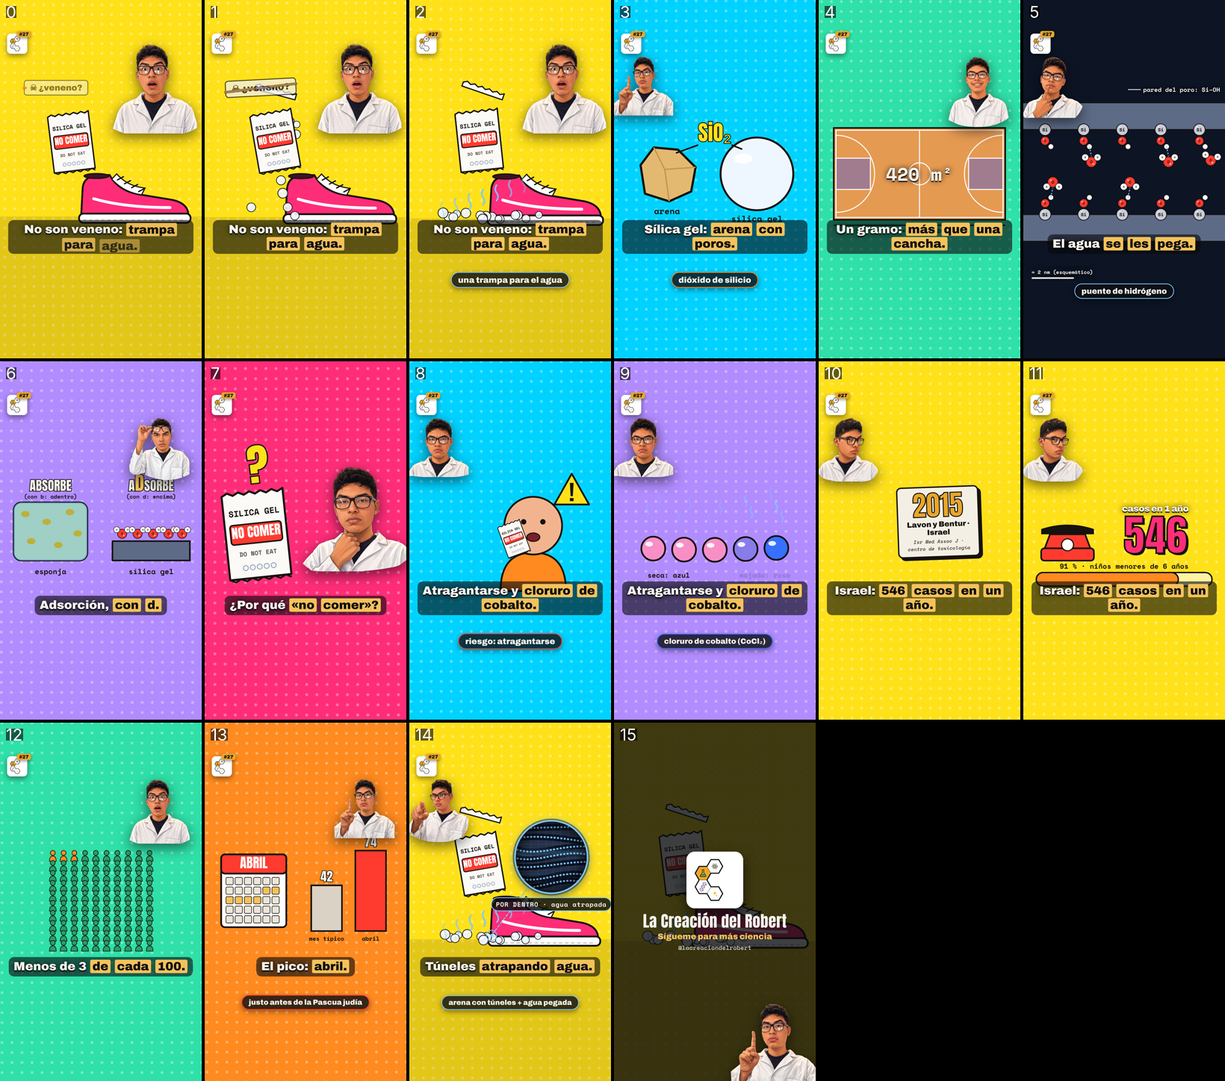
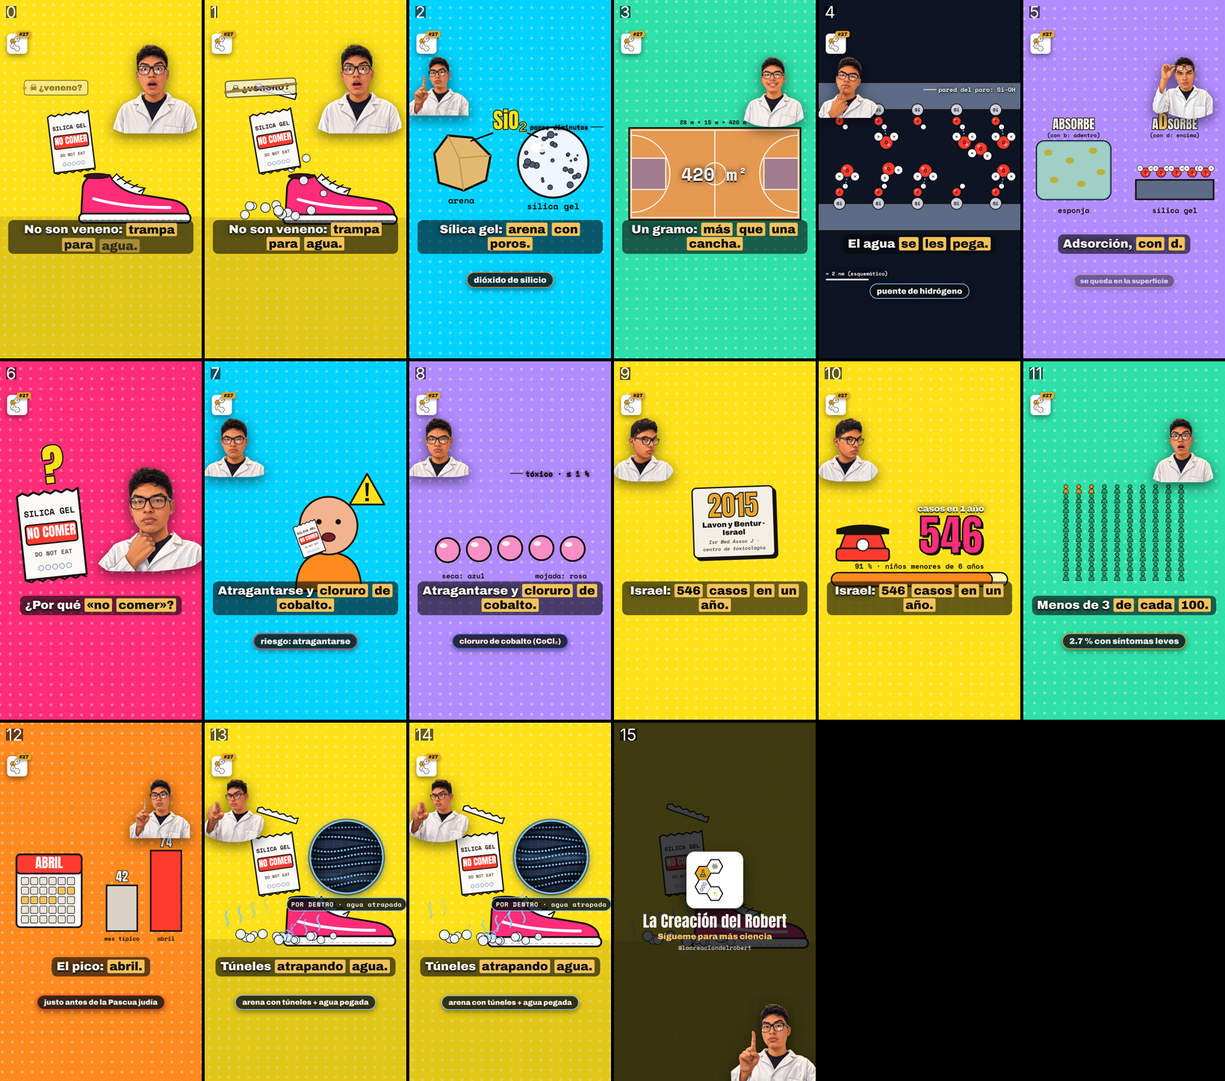
Químico: avance en progreso [sin render]
Claude-Session: https://claude.ai/code/session_0157fpgzuJM3ymsKtSoqvmnt

diff --git a/borradores/qui-26-compresa-fria/compresa.jsx b/borradores/qui-26-compresa-fria/compresa.jsx
@@ -113,10 +113,10 @@ function Compresa26() {
   const calorG = kprog(T, K.G + 1.9, K.G + 2.5);
   const segB = K.Es + 8.6;
   // cristal: orden en que se sueltan los iones
-  const cols = 6, filas = 4, paso = 104, gx0 = 540 - (cols - 1) * paso / 2, gy0 = 830;
+  const cols = 6, filas = 4, paso = 104, gx0 = 540 - (cols - 1) * paso / 2, gy0 = 690;
   const red = Array.from({ length: cols * filas }, (_, i) => ({ c: i % cols, f: Math.floor(i / cols), tipo: (i % cols + Math.floor(i / cols)) % 2 ? 'no3' : 'nh4' }));
   const sale = [0, 5, 18, 23, 1, 12, 17, 6, 11, 2];
-  const destinos = [[150, 600], [930, 620], [130, 1160], [950, 1150], [330, 560], [90, 900], [990, 890], [700, 560], [980, 1020], [480, 1180]];
+  const destinos = [[150, 560], [930, 1080], [130, 1080], [950, 600], [400, 1100], [90, 820], [990, 840], [680, 1110], [260, 1110], [820, 1120]];
   const R = krng(11);
   const revuelto = Array.from({ length: 12 }, () => [R(), R(), R() * 6]);
   const tempV = klerp(27.4, 7.6, kprog(T, K.Te + 2.0, K.Te + 5.6, kEase.suave));
@@ -140,14 +140,13 @@ function Compresa26() {
       <Escena T={T} a={K.Ad} b={K.Ap} zoom={0.03}>
         <FondoLunares color={KC.yellow} />
         <SvgCapa><Compresa x={540} y={1030} s={1.25} /></SvgCapa>
-        <Lupa T={T} at={K.Ad + 0.3} until={K.Ap - 0.3} x={540} y={900} r={250} fx={540} fy={1030} tinte={KC.cyan} interior={(t, r) =>
+        <Lupa T={T} at={K.Ad + 0.3} until={K.Ap - 0.3} x={540} y={900} r={250} fx={540} fy={1030} tinte={KC.cyan} etiqueta="bolsita de agua + polvo" interior={(t, r) =>
           <svg width={r * 2} height={r * 2}><g transform={`translate(${r} ${r}) scale(0.95)`}>
             <rect x={-220} y={-150} width={440} height={300} rx={50} fill="#e8f6ff" opacity={0.2} stroke="#bfe8ff" strokeWidth={4} />
             <Granos x={-200} y={-120} w={400} h={240} n={60} f={1} />
             <rect x={-110} y={-58} width={220} height={116} rx={30} fill={AGUA} stroke="#1f5fa8" strokeWidth={6} />
             <text y={14} textAnchor="middle" style={{ font:`700 36px ${KF.mono}` }} fill={KC.ink}>H₂O</text>
           </g></svg>} />
-        <Etq T={T} at={K.Ad + 1.0} until={K.Ap - 0.3} x={250} y={1200} texto="bolsita de agua" lado="izq" tam={32} color={KC.ink} />
       </Escena>
       {/* 2 · se rompe la bolsita */}
       <Escena T={T} a={K.Ap} b={K.Cr} zoom={0.06}>
@@ -171,13 +170,13 @@ function Compresa26() {
               {p > 0.1 && [0, 1, 2, 3, 4].map((j) => { const a = j / 5 * Math.PI * 2 + T * 1.5; return <Mol key={j} tipo="agua" x={x + Math.cos(a) * 78} y={y + Math.sin(a) * 78} s={0.42} rot={a * 57} o={kprog(T, t0 + 0.2, t0 + 0.8)} />; })}
             </g>; })}
           {/* barra de escala */}
-          <line x1={80} y1={1200} x2={80 + paso * 2} y2={1200} stroke={KC.texto} strokeWidth={8} />
-          <text x={80 + paso} y={1180} textAnchor="middle" style={{ font:`700 30px ${KF.mono}` }} fill={KC.texto}>1 nm (esquema)</text>
+          <line x1={80} y1={1740} x2={80 + paso * 2} y2={1740} stroke={KC.texto} strokeWidth={8} />
+          <text x={80 + paso} y={1720} textAnchor="middle" style={{ font:`700 30px ${KF.mono}` }} fill={KC.texto}>1 nm (esquema)</text>
           {/* energía: separar cuesta más de lo que regresa el agua */}
           {[['separar: cuesta', KC.red, 1.0, 2.6], ['rodear con agua: regresa', KC.mint, 0.82, 3.4]].map(([t, c, l, d], i) => { const p = kprog(T, K.Cr + d, K.Cr + d + 0.7, kEase.sale);
             return <g key={i} opacity={kprog(T, K.Cr + d, K.Cr + d + 0.2)}>
-              <text x={90} y={1462 + i * 120} style={{ font:`700 32px ${KF.mono}` }} fill={KC.texto}>{t}</text>
-              <rect x={90} y={1478 + i * 120} width={880 * l * p} height={44} rx={22} fill={c} stroke={KC.ink} strokeWidth={5} />
+              <text x={90} y={1442 + i * 120} style={{ font:`700 32px ${KF.mono}` }} fill={KC.texto}>{t}</text>
+              <rect x={90} y={1458 + i * 120} width={880 * l * p} height={44} rx={22} fill={c} stroke={KC.ink} strokeWidth={5} />
             </g>; })}
         </SvgCapa>
       </Escena>
@@ -192,7 +191,7 @@ function Compresa26() {
           {[200, 420, 660, 880].map((x, i) => <Calor key={i} T={T} x={x} y0={1180} y1={780} o={kprog(T, K.Ro + 0.3 + i * 0.15, K.Ro + 0.8 + i * 0.15)} ph={i} ancho={12} />)}
         </SvgCapa>
         <Etq T={T} at={K.Ro + 0.2} until={K.Pr - 0.2} x={1010} y={580} texto="agua + iones" lado="izq" tam={32} color={KC.ink} />
-        <Etq T={T} at={K.Ro + 0.6} until={K.Pr - 0.2} x={1010} y={1260} texto="tu rodilla" lado="izq" tam={34} color={KC.ink} />
+        <Etq T={T} at={K.Ro + 0.6} until={K.Pr - 0.2} x={1010} y={1120} texto="tu rodilla" lado="izq" tam={34} color={KC.ink} />
       </Escena>
       {/* 5 · pregunta */}
       <Escena T={T} a={K.Pr} b={K.De} zoom={0.1}>
@@ -247,25 +246,24 @@ function Compresa26() {
       <Escena T={T} a={K.Es} b={segB + 0.2}>
         <FondoLunares color={KC.lilac} />
         <SvgCapa>
-          {T > K.Es + 3.4 && Array.from({ length: 5 }, (_, i) => <Personita key={i} x={170 + i * 150} y={980} s={2.4} color={KC.yellow} o={kprog(T, K.Es + 3.6 + i * 0.25, K.Es + 3.9 + i * 0.25)} />)}
-          {T > K.Es + 4.8 && <Compresa x={540} y={1150} s={0.5} roto={1} corte={0} />}
+          {T > K.Es + 3.4 && Array.from({ length: 5 }, (_, i) => <Personita key={i} x={170 + i * 150} y={960} s={2.4} color={KC.yellow} o={kprog(T, K.Es + 3.6 + i * 0.25, K.Es + 3.9 + i * 0.25)} />)}
         </SvgCapa>
       </Escena>
       <Escena T={T} a={segB} b={K.Ur}>
         <FondoLunares color={KC.mint} />
         <SvgCapa>
-          <Bote x={560} y={1060} s={1} />
+          <Bote x={560} y={960} s={1} />
           {(() => { const c = kprog(T, segB + 0.6, segB + 1.6, kEase.suave); return c < 1 &&
-            <g opacity={1 - kprog(T, segB + 1.4, segB + 1.6)}><Compresa x={560} y={klerp(620, 920, c)} s={0.7} rot={klerp(-10, 25, c)} roto={1} /></g>; })()}
-          <Marca x={820} y={760} ok={true} s={0.9} o={kprog(T, segB + 1.6, segB + 2.0)} />
+            <g opacity={1 - kprog(T, segB + 1.4, segB + 1.6)}><Compresa x={560} y={klerp(560, 830, c)} s={0.7} rot={klerp(-10, 25, c)} roto={1} /></g>; })()}
+          <Marca x={830} y={700} ok={true} s={0.9} o={kprog(T, segB + 1.6, segB + 2.0)} />
         </SvgCapa>
       </Escena>
       {/* 9 · urea */}
       <Escena T={T} a={K.Ur} b={K.Ci}>
         <FondoLunares color={KC.mint} />
         <SvgCapa>
-          <Molecula {...UREA} x={360} y={960} s={1.5} rot={Math.sin(T) * 6} o={kprog(T, K.Ur, K.Ur + 0.5)} />
-          <text x={590} y={975} textAnchor="middle" style={{ font:`400 120px ${KF.titulo}` }} fill={KC.ink} opacity={kprog(T, K.Ur + 2.2, K.Ur + 2.6)}>=</text>
+          <Molecula {...UREA} x={340} y={960} s={1.5} rot={Math.sin(T) * 6} o={kprog(T, K.Ur, K.Ur + 0.5)} />
+          <text x={630} y={975} textAnchor="middle" style={{ font:`400 120px ${KF.titulo}` }} fill={KC.ink} opacity={kprog(T, K.Ur + 2.2, K.Ur + 2.6)}>=</text>
           <g opacity={kprog(T, K.Ur + 2.4, K.Ur + 3.0)}>
             <Rinon x={790} y={820} s={0.9} flip={-1} /><Rinon x={950} y={820} s={0.9} />
             <Frasco x={870} y={1110} s={1} />
@@ -300,7 +298,7 @@ function Compresa26() {
       <Chip T={T} at={K.Es + 7.2} until={segB - 0.2} texto="presión algo baja" x={540} y={1610} tam={42} borde={KC.orange} />
       <Chip T={T} at={segB + 0.4} until={K.Ur - 0.2} texto="si se rompe: a la basura" x={540} y={1500} tam={42} borde={KC.mint} />
       <Chip T={T} at={segB + 1.7} until={K.Ur - 0.2} texto="si la usa un niño: vigílalo" x={540} y={1610} tam={42} borde={KC.gold} />
-      <Etq T={T} at={K.Ur + 0.6} until={K.Ci - 0.3} x={200} y={1170} texto="urea · CO(NH₂)₂" lado="der" tam={34} color={KC.ink} />
+      <Etq T={T} at={K.Ur + 0.6} until={K.Ci - 0.3} x={110} y={690} texto="urea · CO(NH₂)₂" lado="der" tam={34} color={KC.ink} />
       <Chip T={T} at={K.Ur + 2.8} until={K.Ci - 0.2} texto="la misma molécula de tu orina" x={540} y={1500} tam={40} borde={KC.gold} />
       <Chip T={T} at={K.Ci + 1.2} until={K.Ou} texto="calor de tu piel → disuelve el cristal" x={540} y={1500} tam={34} borde={CALOR} />
       <Chip T={T} at={K.Ci + 0.6} until={K.Ou} texto="con un trapo, no directo" x={300} y={600} tam={30} borde={KC.mint} />

diff --git a/borradores/qui-27-silica-gel/silica.jsx b/borradores/qui-27-silica-gel/silica.jsx
@@ -151,13 +151,13 @@ function Silica() {
       <Escena T={T} a={K.Q} b={K.Su}>
         <FondoLunares color={KC.cyan} />
         <SvgCapa>
-          <GranoArena x={290} y={930} s={1.15 * (0.6 + 0.4 * kprog(T, K.Q, K.Q + 0.5, kEase.rebote))} />
-          <BolitaPoros x={760} y={930} r={190 * (0.6 + 0.4 * kprog(T, K.Q + 0.2, K.Q + 0.7, kEase.rebote))} p={kprog(T, K.Q + 2.6, K.Q + 4.4)} />
-          <text x={290} y={1140} textAnchor="middle" style={{ font:`700 44px ${KF.mono}` }} fill={KC.ink}>arena</text>
-          <text x={760} y={1180} textAnchor="middle" style={{ font:`700 44px ${KF.mono}` }} fill={KC.ink}>sílica gel</text>
+          <GranoArena x={290} y={870} s={1.15 * (0.6 + 0.4 * kprog(T, K.Q, K.Q + 0.5, kEase.rebote))} />
+          <BolitaPoros x={760} y={870} r={180 * (0.6 + 0.4 * kprog(T, K.Q + 0.2, K.Q + 0.7, kEase.rebote))} p={kprog(T, K.Q + 2.6, K.Q + 4.4)} />
+          <text x={290} y={1080} textAnchor="middle" style={{ font:`700 44px ${KF.mono}` }} fill={KC.ink}>arena</text>
+          <text x={760} y={1110} textAnchor="middle" style={{ font:`700 44px ${KF.mono}` }} fill={KC.ink}>sílica gel</text>
           <g opacity={kprog(T, K.Q + 1.0, K.Q + 1.4)}>
-            <text x={540} y={760} textAnchor="middle" style={{ font:`400 110px ${KF.titulo}` }} fill={KC.yellow} stroke={KC.ink} strokeWidth={8} paintOrder="stroke">SiO₂</text>
-            <path d="M 450 780 L 340 820 M 630 780 L 680 800" stroke={KC.ink} strokeWidth={8} strokeLinecap="round" />
+            <text x={540} y={630} textAnchor="middle" style={{ font:`400 110px ${KF.titulo}` }} fill={KC.yellow} stroke={KC.ink} strokeWidth={8} paintOrder="stroke">SiO₂</text>
+            <path d="M 450 650 L 340 740 M 630 650 L 680 700" stroke={KC.ink} strokeWidth={8} strokeLinecap="round" />
           </g>
         </SvgCapa>
       </Escena>
@@ -167,7 +167,7 @@ function Silica() {
         <SvgCapa>
           <Cancha x={540} y={930} w={klerp(60, 900, cancha)} h={klerp(60, 482, cancha)} o={kprog(T, K.Su + 0.5, K.Su + 0.8)} />
           {cancha < 0.98 && <BolitaPoros x={540} y={930} r={klerp(110, 30, kprog(T, K.Su, K.Su + 0.8))} p={1} />}
-          {cancha > 0.98 && <g><line x1={90} x2={990} y1={1200} y2={1200} stroke={KC.ink} strokeWidth={6} /><text x={540} y={1240} textAnchor="middle" style={{ font:`700 30px ${KF.mono}` }} fill={KC.ink}>28 m × 15 m = 420 m²</text></g>}
+          {cancha > 0.98 && <g><text x={540} y={1135} textAnchor="middle" style={{ font:`700 34px ${KF.mono}` }} fill="#fff" stroke={KC.ink} strokeWidth={5} paintOrder="stroke">28 m × 15 m = 420 m²</text></g>}
         </SvgCapa>
         <Contador T={T} at={K.Su + 0.6} desde={0} hasta={420} dur={2.2} sufijo=" m²" x={540} y={930} tam={96} color={KC.texto} />
       </Escena>
@@ -175,16 +175,16 @@ function Silica() {
       <Escena T={T} a={K.Si} b={K.Ad}>
         <div style={{ position:'absolute', inset:0, background:KC.noche }}></div>
         <SvgCapa>
-          <rect x={0} y={560} width={KW} height={140} fill={PARED} stroke={KC.ink} strokeWidth={6} />
-          <rect x={0} y={1140} width={KW} height={140} fill={PARED} stroke={KC.ink} strokeWidth={6} />
-          {SIL_X.map((x, i) => <g key={i}><Silanol x={x} y={700} dir={1} /><Silanol x={x} y={1140} dir={-1} /></g>)}
+          <rect x={0} y={460} width={KW} height={140} fill={PARED} stroke={KC.ink} strokeWidth={6} />
+          <rect x={0} y={1080} width={KW} height={140} fill={PARED} stroke={KC.ink} strokeWidth={6} />
+          {SIL_X.map((x, i) => <g key={i}><Silanol x={x} y={600} dir={1} /><Silanol x={x} y={1080} dir={-1} /></g>)}
           {aguas.map(([x, dir], i) => { const t0 = K.Si + 0.6 + i * 0.45, p = kprog(T, t0, t0 + 0.9, kEase.sale);
-            const hx = x + 30, hy = dir > 0 ? 700 + 88 : 1140 - 88, tx = hx + 10, ty = hy + dir * 80;
-            const R = krng(30 + i), x0 = 1180, y0 = 800 + R() * 260;
+            const hx = x + 30, hy = dir > 0 ? 600 + 88 : 1080 - 88, tx = hx + 10, ty = hy + dir * 80;
+            const R = krng(30 + i), x0 = 1180, y0 = 760 + R() * 200;
             const mx = klerp(x0, tx, p) + (p < 1 ? Math.sin(T * 5 + i) * 14 : 0), my = klerp(y0, ty, p) + (p < 1 ? Math.cos(T * 4 + i) * 14 : 0);
             return <g key={i}>
               {p >= 1 && <line x1={hx} y1={hy} x2={tx} y2={ty - dir * 30} stroke={AGUA} strokeWidth={5} strokeDasharray="8 8" />}
-              {T > t0 - 0.6 && <Mol tipo="agua" x={mx} y={my} s={0.8} rot={p >= 1 ? (dir > 0 ? 180 : 0) : T * 60 + i * 40} />}
+              {T > t0 - 0.6 && <Mol tipo="agua" x={mx} y={my} s={1.0} rot={p >= 1 ? (dir > 0 ? 180 : 0) : T * 60 + i * 40} />}
             </g>; })}
         </SvgCapa>
         <div style={{ position:'absolute', left:60, top:1420, zIndex:40, color:KC.texto, font:`700 26px ${KF.mono}`, textShadow:KSOMBRA }}>
@@ -273,12 +273,12 @@ function Silica() {
       <Escena T={T} a={K.Sn} b={K.Cu}>
         <FondoLunares color={KC.mint} />
         <SvgCapa>
-          {Array.from({ length: 100 }, (_, i) => { const c = i % 10, r = Math.floor(i / 10), x = 290 + c * 56, y = 730 + r * 52;
+          {Array.from({ length: 100 }, (_, i) => { const c = i % 10, r = Math.floor(i / 10), x = 103 + (i % 20) * 46, y = 780 + Math.floor(i / 20) * 82;
             const on = kprog(T, K.Sn + 0.2 + i * 0.012, K.Sn + 0.4 + i * 0.012), nar = kprog(T, K.Sn + 1.8, K.Sn + 2.3);
             const base = mixHex('#d8f5ea', '#2a9d6a', on);
-            if (i < 2) return <Personita key={i} x={x} y={y} s={0.8} color={mixHex(base, KC.orange, nar)} o={on} />;
-            if (i === 2) return <PersonaParcial key={i} id="p27" x={x} y={y} s={0.8} f={0.7 * nar} base={base} color={KC.orange} />;
-            return <Personita key={i} x={x} y={y} s={0.8} color={base} o={Math.max(0.3, on)} />; })}
+            if (i < 2) return <Personita key={i} x={x} y={y} s={0.78} color={mixHex(base, KC.orange, nar)} o={on} />;
+            if (i === 2) return <PersonaParcial key={i} id="p27" x={x} y={y} s={0.78} f={0.7 * nar} base={base} color={KC.orange} />;
+            return <Personita key={i} x={x} y={y} s={0.78} color={base} o={Math.max(0.3, on)} />; })}
         </SvgCapa>
       </Escena>
       {/* 9 · curioso: el pico de abril */}
@@ -286,7 +286,7 @@ function Silica() {
         <FondoLunares color={KC.orange} />
         <SvgCapa>
           <Calendario x={270} y={900} />
-          {[['mes típico', 42, '#d9d2c5', 650], ['abril', 74, KC.red, 880]].map(([t, v, c, x], i) => { const h = (v / 74) * 420 * kprog(T, K.Cu + 0.5 + i * 0.6, K.Cu + 1.4 + i * 0.6, kEase.sale);
+          {[['mes típico', 42, '#d9d2c5', 650], ['abril', 74, KC.red, 880]].map(([t, v, c, x], i) => { const h = (v / 74) * 340 * kprog(T, K.Cu + 0.5 + i * 0.6, K.Cu + 1.4 + i * 0.6, kEase.sale);
             return <g key={i}>
               <rect x={x - 80} y={1110 - h} width={160} height={h} fill={c} stroke={KC.ink} strokeWidth={8} />
               <text x={x} y={1090 - h} textAnchor="middle" style={{ font:`400 64px ${KF.titulo}` }} fill={KC.texto} stroke={KC.ink} strokeWidth={6} paintOrder="stroke" opacity={h > 10 ? 1 : 0}>{v}</text>
@@ -305,7 +305,7 @@ function Silica() {
       <MitoTachado T={T} at={K.G + 0.3} tacharEn={K.G + 1.7} until={K.G + 3.0} texto="☠ ¿veneno?" x={300} y={470} tam={50} />
       <Chip T={T} at={K.G + 3.1} until={K.Q - 0.3} texto="una trampa para el agua" x={540} y={1500} tam={44} borde={AGUA} />
       <Chip T={T} at={K.Q + 1.2} until={K.Su - 0.3} texto="dióxido de silicio" y={1500} tam={44} borde={KC.orange} />
-      <Etq T={T} at={K.Q + 2.8} until={K.Su - 0.3} x={1040} y={680} texto="poros diminutos" lado="izq" tam={34} color={KC.ink} />
+      <Etq T={T} at={K.Q + 2.8} until={K.Su - 0.3} x={1040} y={1170} texto="poros diminutos" lado="izq" tam={34} color={KC.ink} />
       <Chip T={T} at={K.Su + 3.0} until={K.Si - 0.3} texto="1 g por dentro: 450–640 m²" y={1500} tam={40} borde={KC.gold} />
       <Etq T={T} at={K.Si + 0.5} until={K.Ad - 0.3} x={560} y={480} texto="pared del poro: Si–OH" lado="der" tam={32} />
       <Chip T={T} at={K.Si + 2.2} until={K.Ad - 0.3} texto="puente de hidrógeno" y={1560} tam={42} borde={AGUA} />

diff --git a/borradores/qui-26-compresa-fria/guion.md b/borradores/qui-26-compresa-fria/guion.md
@@ -5,7 +5,7 @@
 - **Gancho (de los 7):** #1 "Esto no es X: es Y": "Esa compresa no está fabricando frío: le está robando calor a tu piel."
 - **Seguridad:** no se invita a abrir ni a manipular el contenido; se dice que tragarlo hizo daño (caso de 1988) y lo que recomienda el centro de toxicología: si se rompe, se tira, y si la usa un niño, se le vigila; en pantalla la compresa va sobre un trapo, nunca directo en la piel.
 - **Duración:** voz 953 caracteres (≈ 58.1 s) + cierre 3.5 s → **≈ 61.6 s** (estimar-escenas).
-- **Estado:** guion escrito; falta verificación independiente (`verificacion.md`), animación y tabla "Robert en pantalla" (fase 2). Voz pendiente de aprobación de Robert.
+- **Estado:** guion verificado (`verificacion.md`, VEREDICTO: APROBADO), animación lista (`compresa.jsx`, base sin voz 61.6 s), voz pendiente de aprobación de Robert (~953 créditos).
 
 ## Versión narrada
 
@@ -14,7 +14,7 @@
 | 0 | Gancho | Esa compresa no está fabricando frío: le está robando calor a tu piel. | Fondo cian. Desde el cuadro 0 una mano aprieta una compresa blanca ("COLD PACK" genérico, sin marca) apoyada sobre un trapo que cubre la rodilla; la bolsa hace "crack" al apretarla. Chip chico "con un trapo, no directo". Chip "fabrica frío" que se tacha y aparece "roba calor" con flechas rojas saliendo de la rodilla, a través del trapo, hacia la bolsa. |
 | 1 | Adentro | Adentro trae una bolsita de agua y un polvo blanco: nitrato de amonio, o en otras, urea. | `Lupa` en modo rayos X sobre la compresa: adentro, una bolsita azul de agua y gránulos blancos. Etiquetas "nitrato de amonio · NH₄NO₃" y "urea · CO(NH₂)₂". |
 | 2 | Aprieta | Al apretarla, la bolsita se rompe y el polvo empieza a disolverse. | La bolsita interna se rasga (efecto "pop"); el agua inunda los gránulos y empiezan a encogerse. |
-| 3 | Cristal | Pero separar los pedacitos del cristal cuesta más energía de la que regresa el agua al rodearlos. | Fondo noche (micro). Barra de escala "1 nm". Un cristal de iones NH₄⁺ (morado) y NO₃⁻ (naranja) en rejilla; moléculas de agua (V azul con 2 puntitos blancos) jalan un ion afuera y lo rodean. Barra "cuesta" (separar, roja) más larga que barra "regresa" (rodear con agua, verde); chip "+25.7 kJ por mol". |
+| 3 | Cristal | Pero separar los pedacitos del cristal cuesta más energía de la que regresa el agua al rodearlos. | Fondo noche (micro). Barra de escala "1 nm (esquema)". Un cristal de iones NH₄⁺ (morado) y NO₃⁻ (naranja) en rejilla; moléculas de agua (V azul con 2 puntitos blancos) jalan un ion afuera y lo rodean. Barra "cuesta" (separar, roja) más larga que barra "regresa" (rodear con agua, verde); chip "+25.7 kJ por mol". |
 | 4 | Robo | Esa energía la jala como calor del agua y de tu rodilla. | Zoom out por capas: flechitas rojas de calor viajan del agua y, más afuera, de la piel hacia los iones que se sueltan; la piel pasa de rosa a azulito. |
 | 5 | Pregunta | ¿Y por qué se disuelve, si le cuesta? | **Re-gancho.** "?" gigante sobre el cristal a medio deshacer. |
 | 6 | Desorden | Porque al disolverse todo queda más revuelto, y ese desorden gana. | Dos cuadros: izquierda, iones ordenados en rejilla; derecha, iones mezclados al azar en el agua. Una balanza "energía" vs "desorden" se inclina hacia "desorden". |
@@ -25,6 +25,25 @@
 | — | Outro | (sin voz) | `CierreMarca` con el logo de química (matraz) y Robert señalando. |
 
 **Música:** cama grave continua, debajo de la voz; efectos en el mismo cuadro (apretón y "crack" de la bolsa, "pop" de la bolsita interna, gránulos que se disuelven con siseo, ion que se suelta, termómetro que baja con un tono descendente, golpe de la tarjeta, bolsa al bote).
+
+## Robert en pantalla
+
+Tiempos de la base sin voz (atados a cada escena con `CUES`). Grande en «¿Y por qué se disuelve, si le cuesta?».
+
+| # | Entra (s) | Sale (s) | Pose | Lado | Reacciona a |
+|---|---|---|---|---|---|
+| 1 | 0.0 | 4.0 | 11_sorprendido | `gancho` | «le está robando calor a tu piel» |
+| 2 | 5.3 | 9.4 | 13_senalando_arriba | `izq-alto` | «una bolsita de agua y un polvo blanco» |
+| 3 | 14.3 | 19.4 | 06_pensativo_menton | `arriba-der` | «cuesta más energía de la que regresa el agua» |
+| 4 | 23.3 | 26.2 | 07_pensativo_puno | `grande` | «¿Y por qué se disuelve, si le cuesta?» |
+| 5 | 30.6 | 35.9 | 11_sorprendido | `izq-alto` | «de 27 a casi 8 grados» |
+| 6 | 36.8 | 44.5 | 10_serio_molesto | `arriba-der` | «cinco personas que se tragaron este polvo» |
+| 7 | 45.0 | 47.7 | 04_bajando_lentes | `izq-alto` | «si la usa un niño, vigílalo» |
+| 8 | 48.3 | 52.9 | 05_sonriendo_dientes_uniformes | `arriba-der` | «lo que tus riñones sacan en la orina» |
+| 9 | 53.5 | 58.0 | 02_apuntando_camara | `arriba-der` | «es tu propio calor yéndose» |
+| — | 58.1 | 61.6 | 13_senalando_arriba | CierreMarca | tarjeta de cierre |
+
+**Total:** 9 apariciones · ≈ 41 s en pantalla (+ cierre 3.5 s) · 8 poses distintas · nunca la misma dos veces seguidas.
 
 ## Fuentes (abiertas el 29 oct 2026)
 

diff --git a/borradores/qui-25-calentador-manos/verificacion.md b/borradores/qui-25-calentador-manos/verificacion.md
@@ -53,3 +53,30 @@
 4. **#11 (Polvo, pantalla).** Quitar las etiquetas "días" / "minutos" de los relojes; dejar "lento" / "rápido" (o un reloj lento y uno rápido sin unidades).
 5. **#16 (Ayudantes, pantalla).** Cambiar "se hincha con agua como esponja" por "absorbe y guarda agua como esponja" (sin hincharse).
 6. **#17 (Patente, voz y tarjeta).** No atar la prueba al año 1973. Propuesta: "Una patente japonesa de Asahi Kasei, de los años 70, probó una bolsita así: se mantuvo entre 45 y 50 grados por 22 horas." Tarjeta: "Años 70 · Japón · patente de Asahi Kasei (publicada en EE. UU. en 1976)". (Alternativa exacta: "En 1976 se publicó una patente de Asahi Kasei, de Japón…")
+
+## Re-verificación (29 oct 2026)
+
+Mismo verificador independiente; se revisaron contra las mismas fuentes abiertas todas las líneas que cambiaron en `narracion.json` y en la columna "Lo que se ve".
+
+| # | Afirmación corregida (voz o pantalla) | Veredicto | Fuente | Frase textual | Año del dato |
+|---|---|---|---|---|---|
+| R1 | Voz: "Según la hoja de seguridad de una marca, de 2021, la mitad o más del relleno es hierro en polvo" | ✅ | [K] | "Iron powder 7439-89-6 50-60" · "Date of revision: December 08. 2021" | 2021 (lo dice la voz) |
+| R2 | Voz: "luego agua, sal, carbón activado y vermiculita" | ⚠ (menor) | [K] | "Activated charcoal … 5-10 · Vermiculite … 5-10 · Sodium chloride … 1-5 · Water … 30-40" | 2021 |
+|    | (los ingredientes son correctos, pero "luego" se oye como "de mayor a menor" y la sal (1–5 %) está antes que el carbón y la vermiculita (5–10 %)) | | | | |
+| R3 | Pantalla: chip "hoja de seguridad · 2021"; barra con hierro 50–60 %, agua 30–40 %, carbón 5–10 %, vermiculita 5–10 %, sal 1–5 %, resina 1–5 % | ✅ | [K] | Mismas cifras de la tabla de composición | 2021 |
+| R4 | Voz: "Cerrado, no le llega aire. Al abrirlo, el oxígeno entra por la bolsita." | ✅ | [T] | "外袋 …外気を遮断する外側の袋。" · "内袋 …空気を取り込む小さな穴があいている。" | 2004 |
+| R5 | Voz: "con sal y hecho polvo, el hierro se oxida mucho más rápido que un clavo" | ✅ | [M] | "Due to the addition of salt and the high degree of fragmentation, this reaction takes place much faster than, for example, on a nail sticking out of the wall." | 2024 |
+| R6 | Pantalla: relojes "lento" / "rápido" (sin unidades) | ✅ | [M] | "much faster" (cualitativo) | 2024 |
+| R7 | Voz: "El agua ayuda, el carbón atrapa oxígeno y la vermiculita guarda el agua." | ✅ | [T] | "水・塩類 鉄粉のさびる速度を速める。" · "活性炭 空気中の酸素を吸着して" · "保水剤 …水を含ませておく。…バーミキュライトが使われることが多い。" | 2004 |
+| R8 | Pantalla: vermiculita que "absorbe y guarda agua como esponja (sin hincharse)" | ✅ | [T] | "水を含ませておく" | 2004 |
+| R9 | Voz: "Una patente de Asahi Kasei, de los años 70, probó una bolsita así: se mantuvo entre 45 y 50 grados por 22 horas." | ✅ | [P] | Asignatario "Asahi Kasei Kogyo KK"; prioridad 1973-07-04, publicada 1976-08-24; Ejemplo 4: "a heat-generating average temperature of 45°-50°C lasted for 22 hours" | 1973–1976 (lo dice la voz: "de los años 70") |
+| R10 | Pantalla: tarjeta "años 70 · Asahi Kasei · patente"; franja "45–50 °C (promedio)"; contador a "22 horas" | ✅ | [P] | Ídem ("average temperature") | 1976 |
+
+**Conteo de la re-verificación:** 9 ✅ · 1 ⚠ menor · 0 ❌. Todos los ⚠ de la primera ronda (#3, #5, #10, #11, #16, #17) quedan resueltos.
+
+### Corrección pendiente
+- **R2:** ordenar de mayor a menor como en la hoja: "…es hierro en polvo; luego agua, carbón activado, vermiculita y sal." (mismas palabras, solo cambia el orden; no cambia la duración).
+
+- Aplicada tal cual la propuesta de la re-verificación: «luego agua, carbón activado, vermiculita y sal».
+
+VEREDICTO: APROBADO
